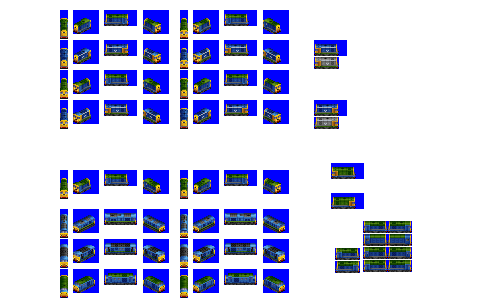
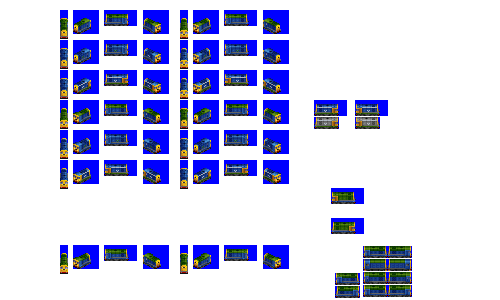
Change: additional liveries for Chinook and Merlion

diff --git a/src/vehicles/chinook.py b/src/vehicles/chinook.py
@@ -15,7 +15,7 @@ def main(roster_id):
         gen=4,
         fixed_run_cost_points=118,  # minor run cost bonus as default algorithm makes run cost too high
         caboose_family="railfreight_1",
-        additional_liveries=["RAILFREIGHT_RED_STRIPE"],
+        additional_liveries=["BANGER_BLUE", "RAILFREIGHT_RED_STRIPE"],
         default_livery_extra_docs_examples=[
             ("COLOUR_PALE_GREEN", "COLOUR_GREY"),
             ("COLOUR_BLUE", "COLOUR_GREY"),

diff --git a/src/vehicles/merlion.py b/src/vehicles/merlion.py
@@ -17,7 +17,7 @@ def main(roster_id):
         gen=4,
         intro_year_offset=-2,  # let's be a littler earlier for this one
         caboose_family="railfreight_1",
-        additional_liveries=["RAILFREIGHT_RED_STRIPE", "DUTCH"],
+        additional_liveries=["WHITE_STRIPE", "RAILFREIGHT_RED_STRIPE", "DUTCH"],
         sprites_complete=True,
     )
 
